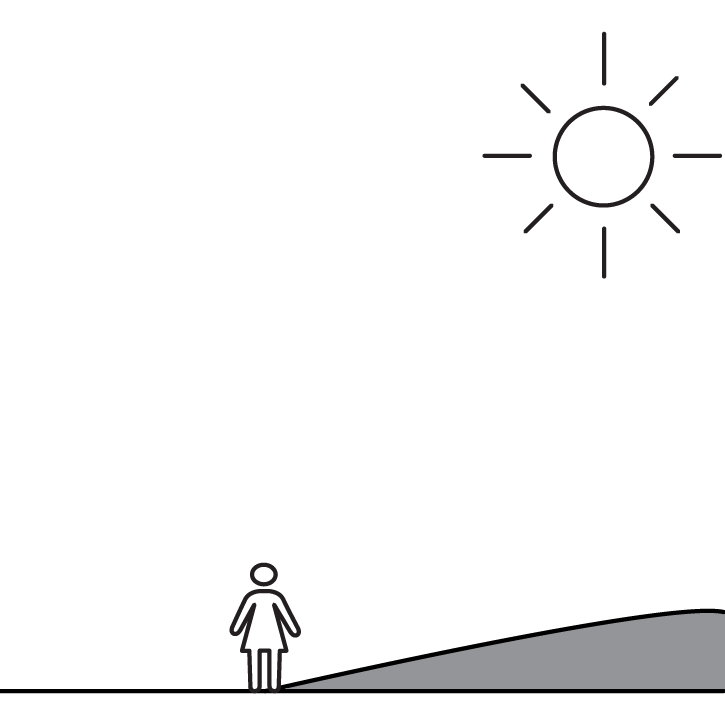
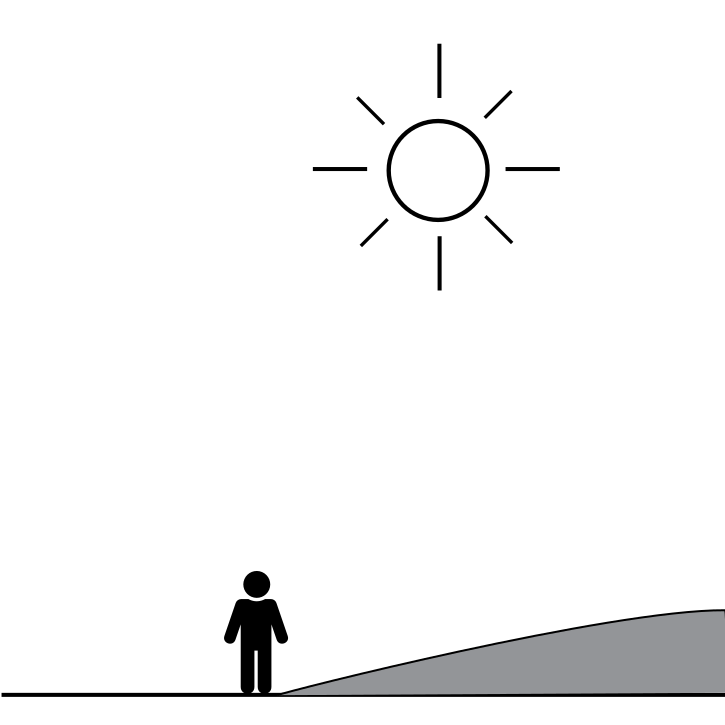
feat: the great slope asset migration of xmas 2023

diff --git a/dev-client/src/screens/SlopeScreen/SlopeShapeScreen.tsx b/dev-client/src/screens/SlopeScreen/SlopeShapeScreen.tsx
@@ -15,7 +15,7 @@
  * along with this program. If not, see https://www.gnu.org/licenses/.
  */
 
-import {Box, Column, Fab, Heading, Row, ScrollView} from 'native-base';
+import {Column, Fab, Heading, ScrollView} from 'native-base';
 import {useDispatch, useSelector} from 'terraso-mobile-client/store';
 import {ScreenScaffold} from 'terraso-mobile-client/screens/ScreenScaffold';
 import {
@@ -25,28 +25,32 @@ import {
 import {AppBar} from 'terraso-mobile-client/navigation/components/AppBar';
 import {useTranslation} from 'react-i18next';
 import {LastModified} from 'terraso-mobile-client/components/LastModified';
-import {ImageRadio} from 'terraso-mobile-client/components/ImageRadio';
+import {
+  ImageRadio,
+  ImageRadioOption,
+} from 'terraso-mobile-client/components/ImageRadio';
 import {useCallback, useMemo} from 'react';
 import {updateSoilData} from 'terraso-client-shared/soilId/soilIdSlice';
 import {Icon} from 'terraso-mobile-client/components/Icons';
 import {StyleSheet} from 'react-native';
 import {useNavigation} from 'terraso-mobile-client/navigation/hooks/useNavigation';
+import ConcaveConcave from 'terraso-mobile-client/assets/slope/shape/concave-concave.svg';
+import ConcaveConvex from 'terraso-mobile-client/assets/slope/shape/concave-convex.svg';
+import ConcaveLinear from 'terraso-mobile-client/assets/slope/shape/concave-linear.svg';
+import ConvexConcave from 'terraso-mobile-client/assets/slope/shape/convex-concave.svg';
+import ConvexConvex from 'terraso-mobile-client/assets/slope/shape/convex-convex.svg';
+import ConvexLinear from 'terraso-mobile-client/assets/slope/shape/convex-linear.svg';
+import LinearConcave from 'terraso-mobile-client/assets/slope/shape/linear-concave.svg';
+import LinearConvex from 'terraso-mobile-client/assets/slope/shape/linear-convex.svg';
+import LinearLinear from 'terraso-mobile-client/assets/slope/shape/linear-linear.svg';
+import {renderShape} from 'terraso-mobile-client/screens/SlopeScreen/utils/renderValues';
 
 type Props = {
   siteId: string;
 };
 
-const DOWN_SLOPE_IMAGES = {
-  CONCAVE: require('terraso-mobile-client/assets/slope/shape/down-slope-concave.png'),
-  CONVEX: require('terraso-mobile-client/assets/slope/shape/down-slope-convex.png'),
-  LINEAR: require('terraso-mobile-client/assets/slope/shape/down-slope-linear.png'),
-} satisfies Record<SoilIdSoilDataDownSlopeChoices, any>;
-
-const CROSS_SLOPE_IMAGES = {
-  CONCAVE: require('terraso-mobile-client/assets/slope/shape/cross-slope-concave.png'),
-  CONVEX: require('terraso-mobile-client/assets/slope/shape/cross-slope-convex.png'),
-  LINEAR: require('terraso-mobile-client/assets/slope/shape/cross-slope-linear.png'),
-} satisfies Record<SoilIdSoilDataCrossSlopeChoices, any>;
+type CombinedSlope =
+  `${SoilIdSoilDataDownSlopeChoices}:${SoilIdSoilDataCrossSlopeChoices}`;
 
 export const SlopeShapeScreen = ({siteId}: Props) => {
   const name = useSelector(state => state.site.sites[siteId].name);
@@ -57,46 +61,62 @@ export const SlopeShapeScreen = ({siteId}: Props) => {
   const dispatch = useDispatch();
   const navigation = useNavigation();
 
-  const downSlopeOptions = useMemo(
-    () =>
-      Object.fromEntries(
-        Object.entries(DOWN_SLOPE_IMAGES).map(([value, image]) => [
-          value,
-          {label: t(`slope.shape.select_labels.${value}`), image},
-        ]),
-      ),
+  const options = useMemo<Record<CombinedSlope, ImageRadioOption>>(
+    () => ({
+      'CONCAVE:CONCAVE': {
+        label: renderShape(t, {downSlope: 'CONCAVE', crossSlope: 'CONCAVE'}),
+        image: <ConcaveConcave />,
+      },
+      'CONCAVE:CONVEX': {
+        label: renderShape(t, {downSlope: 'CONCAVE', crossSlope: 'CONVEX'}),
+        image: <ConcaveConvex />,
+      },
+      'CONCAVE:LINEAR': {
+        label: renderShape(t, {downSlope: 'CONCAVE', crossSlope: 'LINEAR'}),
+        image: <ConcaveLinear />,
+      },
+      'CONVEX:CONCAVE': {
+        label: renderShape(t, {downSlope: 'CONVEX', crossSlope: 'CONCAVE'}),
+        image: <ConvexConcave />,
+      },
+      'CONVEX:CONVEX': {
+        label: renderShape(t, {downSlope: 'CONVEX', crossSlope: 'CONVEX'}),
+        image: <ConvexConvex />,
+      },
+      'CONVEX:LINEAR': {
+        label: renderShape(t, {downSlope: 'CONVEX', crossSlope: 'LINEAR'}),
+        image: <ConvexLinear />,
+      },
+      'LINEAR:CONCAVE': {
+        label: renderShape(t, {downSlope: 'LINEAR', crossSlope: 'CONCAVE'}),
+        image: <LinearConcave />,
+      },
+      'LINEAR:CONVEX': {
+        label: renderShape(t, {downSlope: 'LINEAR', crossSlope: 'CONVEX'}),
+        image: <LinearConvex />,
+      },
+      'LINEAR:LINEAR': {
+        label: renderShape(t, {downSlope: 'LINEAR', crossSlope: 'LINEAR'}),
+        image: <LinearLinear />,
+      },
+    }),
     [t],
   );
 
-  const crossSlopeOptions = useMemo(
-    () =>
-      Object.fromEntries(
-        Object.entries(CROSS_SLOPE_IMAGES).map(([value, image]) => [
-          value,
-          {label: t(`slope.shape.select_labels.${value}`), image},
-        ]),
-      ),
-    [t],
-  );
-
-  const onDownSlopeChange = useCallback(
-    (value: SoilIdSoilDataDownSlopeChoices | null) => {
+  const onChange = useCallback(
+    (value: CombinedSlope | null) => {
+      const [newDownSlope, newCrossSlope] =
+        value === null
+          ? [null, null]
+          : (value.split(':') as [
+              SoilIdSoilDataDownSlopeChoices,
+              SoilIdSoilDataCrossSlopeChoices,
+            ]);
       dispatch(
         updateSoilData({
           siteId,
-          downSlope: value,
-        }),
-      );
-    },
-    [dispatch, siteId],
-  );
-
-  const onCrossSlopeChange = useCallback(
-    (value: SoilIdSoilDataCrossSlopeChoices | null) => {
-      dispatch(
-        updateSoilData({
-          siteId,
-          crossSlope: value,
+          downSlope: newDownSlope,
+          crossSlope: newCrossSlope,
         }),
       );
     },
@@ -114,25 +134,14 @@ export const SlopeShapeScreen = ({siteId}: Props) => {
             <LastModified />
           </Column>
         </Column>
-        <Row>
-          <Column width="50%" alignItems="center">
-            <Heading variant="h6">{t('slope.shape.down_slope')}</Heading>
-            <ImageRadio
-              value={downSlope}
-              options={downSlopeOptions as any}
-              onChange={onDownSlopeChange}
-            />
-          </Column>
-          <Box width={StyleSheet.hairlineWidth} bg="grey.800" my="50px" />
-          <Column width="50%" alignItems="center">
-            <Heading variant="h6">{t('slope.shape.cross_slope')}</Heading>
-            <ImageRadio
-              value={crossSlope}
-              options={crossSlopeOptions as any}
-              onChange={onCrossSlopeChange}
-            />
-          </Column>
-        </Row>
+        <ImageRadio
+          value={
+            downSlope && crossSlope ? `${downSlope}:${crossSlope}` : undefined
+          }
+          options={options}
+          onChange={onChange}
+          minimumPerRow={3}
+        />
       </ScrollView>
       <Fab
         onPress={() => navigation.pop()}

diff --git a/dev-client/src/components/ImageRadio.tsx b/dev-client/src/components/ImageRadio.tsx
@@ -16,63 +16,55 @@
  */
 
 import {Text, useToken} from 'native-base';
-import {
-  Image,
-  ImageSourcePropType,
-  Pressable,
-  StyleSheet,
-  View,
-  useWindowDimensions,
-} from 'react-native';
+import {Pressable, StyleSheet, View} from 'react-native';
 
-type Option = {
-  label: string;
-  image: ImageSourcePropType;
+export type ImageRadioOption = {
+  label: string | undefined;
+  image: React.ReactNode;
 };
 type Props<Value extends string> = {
   value: Value | null | undefined;
-  options: Record<Value, Option>;
+  options: Record<Value, ImageRadioOption>;
   onChange: (value: Value | null) => void;
+  minimumPerRow: number;
 };
 
 export const ImageRadio = <Value extends string>({
   value,
   options,
   onChange,
+  minimumPerRow,
 }: Props<Value>) => {
   const bg = useToken('colors', 'primary.lighter');
-  const {width} = useWindowDimensions();
+  const flexBasis = `${100 / (minimumPerRow + 1)}%` as const;
 
   return (
     <View style={styles.container}>
-      {Object.entries<Option>(options).map(([optionValue, {label, image}]) => (
-        <Pressable
-          key={optionValue}
-          style={[
-            styles.gridElem,
-            styles.radioOption,
-            {
-              backgroundColor: value === optionValue ? bg : undefined,
-              flexBasis: width / 3,
-            },
-          ]}
-          onPress={() => onChange(optionValue as Value)}>
-          <View style={styles.imageContainer}>
-            <Image resizeMode="contain" style={styles.image} source={image} />
-          </View>
-          <Text
-            variant="body1"
-            textAlign="center"
-            fontWeight={value === optionValue ? 700 : undefined}>
-            {label}
-          </Text>
-        </Pressable>
-      ))}
+      {Object.entries<ImageRadioOption>(options).map(
+        ([optionValue, {label, image}]) => (
+          <Pressable
+            key={optionValue}
+            style={[
+              styles.gridElem,
+              styles.radioOption,
+              {
+                backgroundColor: value === optionValue ? bg : undefined,
+                flexBasis,
+              },
+            ]}
+            onPress={() => onChange(optionValue as Value)}>
+            <View style={styles.imageContainer}>{image}</View>
+            <Text
+              variant="body1"
+              textAlign="center"
+              fontWeight={value === optionValue ? 700 : undefined}>
+              {label}
+            </Text>
+          </Pressable>
+        ),
+      )}
       {Object.keys(options).map((_, index) => (
-        <View
-          key={`spacer-${index}`}
-          style={[styles.gridElem, {flexBasis: width / 3}]}
-        />
+        <View key={`spacer-${index}`} style={[styles.gridElem, {flexBasis}]} />
       ))}
     </View>
   );
@@ -97,11 +89,13 @@ const styles = StyleSheet.create({
   imageContainer: {
     width: '100%',
     aspectRatio: '1/1',
-    borderColor: 'black',
-    borderWidth: 2,
   },
   image: {
     width: '100%',
     height: '100%',
+    borderColor: 'black',
+    borderWidth: 2,
   },
 });
+
+export const radioImage = styles.image;

diff --git a/dev-client/src/screens/SlopeScreen/SlopeSteepnessScreen.tsx b/dev-client/src/screens/SlopeScreen/SlopeSteepnessScreen.tsx
@@ -32,13 +32,16 @@ import {AppBar} from 'terraso-mobile-client/navigation/components/AppBar';
 import {LastModified} from 'terraso-mobile-client/components/LastModified';
 import {Icon} from 'terraso-mobile-client/components/Icons';
 import {renderSteepness} from 'terraso-mobile-client/screens/SlopeScreen/utils/renderValues';
-import {ImageRadio} from 'terraso-mobile-client/components/ImageRadio';
+import {
+  ImageRadio,
+  radioImage,
+} from 'terraso-mobile-client/components/ImageRadio';
 import {useCallback, useMemo, useRef, useState} from 'react';
 import {SoilIdSoilDataSlopeSteepnessSelectChoices} from 'terraso-client-shared/graphqlSchema/graphql';
 import {updateSoilData} from 'terraso-client-shared/soilId/soilIdSlice';
 import {Modal, ModalHandle} from 'terraso-mobile-client/components/Modal';
 import {ManualSteepnessModal} from 'terraso-mobile-client/screens/SlopeScreen/components/ManualSteepnessModal';
-import {StyleSheet} from 'react-native';
+import {Image, ImageSourcePropType, StyleSheet} from 'react-native';
 import {ConfirmModal} from 'terraso-mobile-client/components/ConfirmModal';
 import {useNavigation} from 'terraso-mobile-client/navigation/hooks/useNavigation';
 
@@ -53,10 +56,13 @@ const STEEPNESS_IMAGES = {
   ROLLING: require('terraso-mobile-client/assets/slope/steepness/rolling.png'),
   HILLY: require('terraso-mobile-client/assets/slope/steepness/hilly.png'),
   STEEP: require('terraso-mobile-client/assets/slope/steepness/steep.png'),
-  MODERATELY_STEEP: require('terraso-mobile-client/assets/slope/steepness/steep.png'),
-  VERY_STEEP: require('terraso-mobile-client/assets/slope/steepness/very_steep.png'),
-  STEEPEST: require('terraso-mobile-client/assets/slope/steepness/very_steep.png'),
-} satisfies Record<SoilIdSoilDataSlopeSteepnessSelectChoices, any>;
+  MODERATELY_STEEP: require('terraso-mobile-client/assets/slope/steepness/moderately-steep.png'),
+  VERY_STEEP: require('terraso-mobile-client/assets/slope/steepness/very-steep.png'),
+  STEEPEST: require('terraso-mobile-client/assets/slope/steepness/steepest.png'),
+} satisfies Record<
+  SoilIdSoilDataSlopeSteepnessSelectChoices,
+  ImageSourcePropType
+> as Record<SoilIdSoilDataSlopeSteepnessSelectChoices, ImageSourcePropType>;
 
 export const SlopeSteepnessScreen = ({siteId}: Props) => {
   const name = useSelector(state => state.site.sites[siteId].name);
@@ -73,7 +79,10 @@ export const SlopeSteepnessScreen = ({siteId}: Props) => {
       Object.fromEntries(
         Object.entries(STEEPNESS_IMAGES).map(([value, image]) => [
           value,
-          {label: t(`slope.steepness.select_labels.${value}`), image},
+          {
+            label: t(`slope.steepness.select_labels.${value}`),
+            image: <Image style={radioImage} source={image} />,
+          },
         ]),
       ),
     [t],
@@ -168,6 +177,7 @@ export const SlopeSteepnessScreen = ({siteId}: Props) => {
           value={soilData.slopeSteepnessSelect}
           options={steepnessOptions as any}
           onChange={onSteepnessOptionSelected}
+          minimumPerRow={2}
         />
       </ScrollView>
       <Fab

diff --git a/dev-client/src/screens/SlopeScreen/utils/renderValues.ts b/dev-client/src/screens/SlopeScreen/utils/renderValues.ts
@@ -30,7 +30,10 @@ export const renderSteepness = (
         ? `${slopeSteepnessDegree}°`
         : undefined;
 
-export const renderShape = (t: TFunction, {downSlope, crossSlope}: SoilData) =>
+export const renderShape = (
+  t: TFunction,
+  {downSlope, crossSlope}: Pick<SoilData, 'downSlope' | 'crossSlope'>,
+) =>
   downSlope && crossSlope
     ? `${t(`slope.shape.select_labels.${downSlope}`)} ${t(
         `slope.shape.select_labels.${crossSlope}`,
